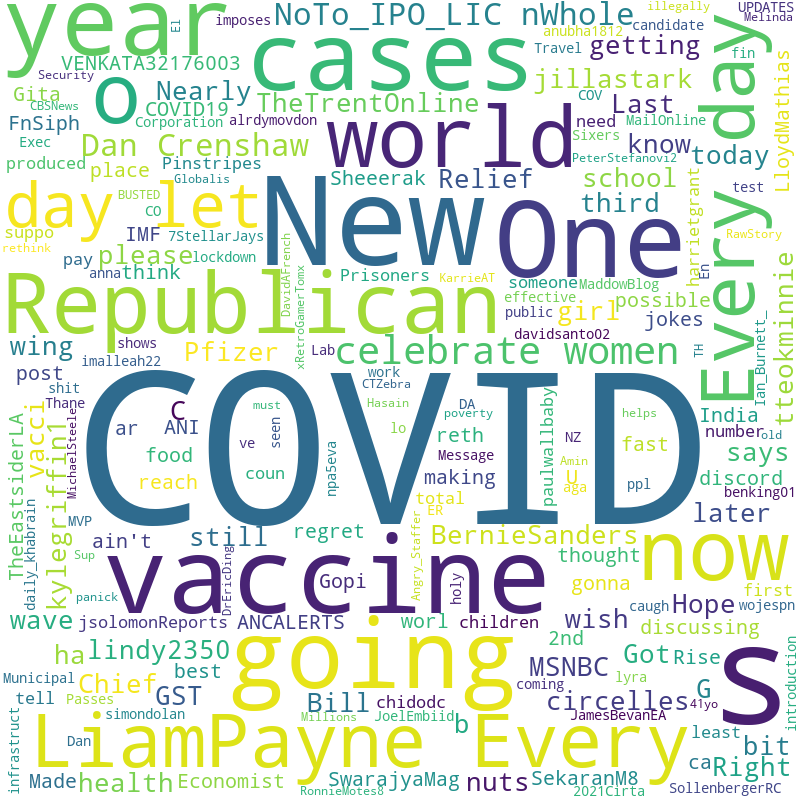
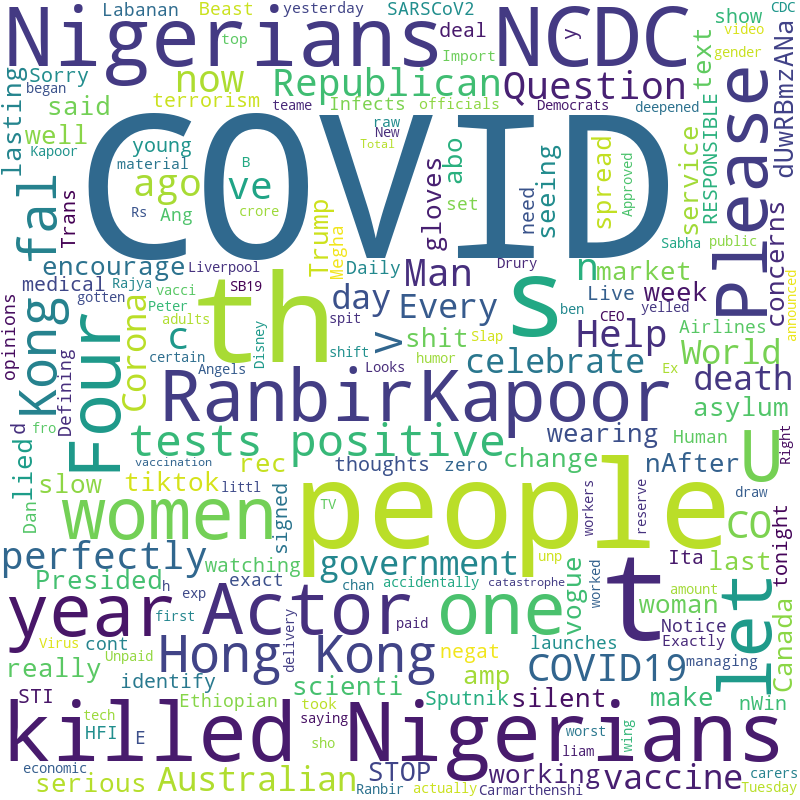
added date functions and removed @ handles from wordcloud

diff --git a/twitter_analyzer.py b/twitter_analyzer.py
@@ -4,7 +4,7 @@ from tweepy.streaming import StreamListener
 from tweepy import OAuthHandler
 from tweepy import Stream
 from wordcloud import WordCloud, STOPWORDS
-from datetime import date
+from datetime import datetime, timedelta
 
 import os.path
 import tweepy
@@ -13,7 +13,7 @@ import matplotlib.pyplot as plt
 import twitter_credentials
 import numpy as np
 import pandas as pd
-
+import re
 
 # # # # TWITTER CLIENT # # # #
 class TwitterClient():
@@ -52,9 +52,11 @@ class TwitterClient():
 
     def get_today_tweets(self, num_tweets, search_terms):
         tweets = []
-        #today = 
-        for tweet in Cursor(self.twitter_client.search, q = search_terms, lang = "en").items(num_tweets):
-            #if tweet.created_at 
+        start_date = datetime.now() - timedelta(days=1)
+        start_time = start_date.strftime("%Y-%m-%dT%H:%M:%SZ")
+        # q = since:until?
+        for tweet in Cursor(self.twitter_client.search, q = search_terms + " since:" + start_time,
+         lang = "en", start_time = start_time).items(num_tweets): 
             tweets.append(tweet)
         return tweets
 
@@ -135,7 +137,7 @@ class TweetAnalyzer():
 class PlotWordCloud():
     # create and plots word cloud from passed str
     def make_word_cloud(self, str):
-        stopwords = ["RT"] + list(STOPWORDS) 
+        stopwords = ["RT", "https", "http"] + list(STOPWORDS) 
         wordcloud = WordCloud(width = 800, height = 800, 
                     background_color ='white', 
                     stopwords = stopwords, 
@@ -163,18 +165,29 @@ class BotFunctions():
         api = twitter_client.get_twitter_client_api()
 
         # get today's date (for naming the wordcloud)
-        today = date.today()
+        today = datetime.today()
         today_str = today.strftime("%d-%m-%Y")
+
+        # gives the exact time, used to make wordclouds while testing unique
+        now = datetime.now()
+        now = now.strftime("%H.%M.%S")
 
         # get tweets
         tweets = twitter_client.get_today_tweets(count, keywords)
         # store tweets into data frame
         df = tweet_analyzer.tweets_to_data_frame(tweets)
 
+        # print dataframe for debugging purposes
+        # print(df.head(10))
+
         # extracting only the contents of the tweet
         str = df.text.to_string()
+        # remove twitter handles (starting with @), replaces it with empty string
+        # removing RT in stopwords (see make_word_cloud function)
+        str = re.sub("@\w[\w']+", "", str) 
+        # print(str)
 
-        cloud_name = "testcloud" + today_str + ".png"
+        cloud_name = "testcloud" + now + today_str + ".png"
 
         # make the word cloud and store it on computer
         # path = "C:\Users\richa\Desktop\Twitter\"
